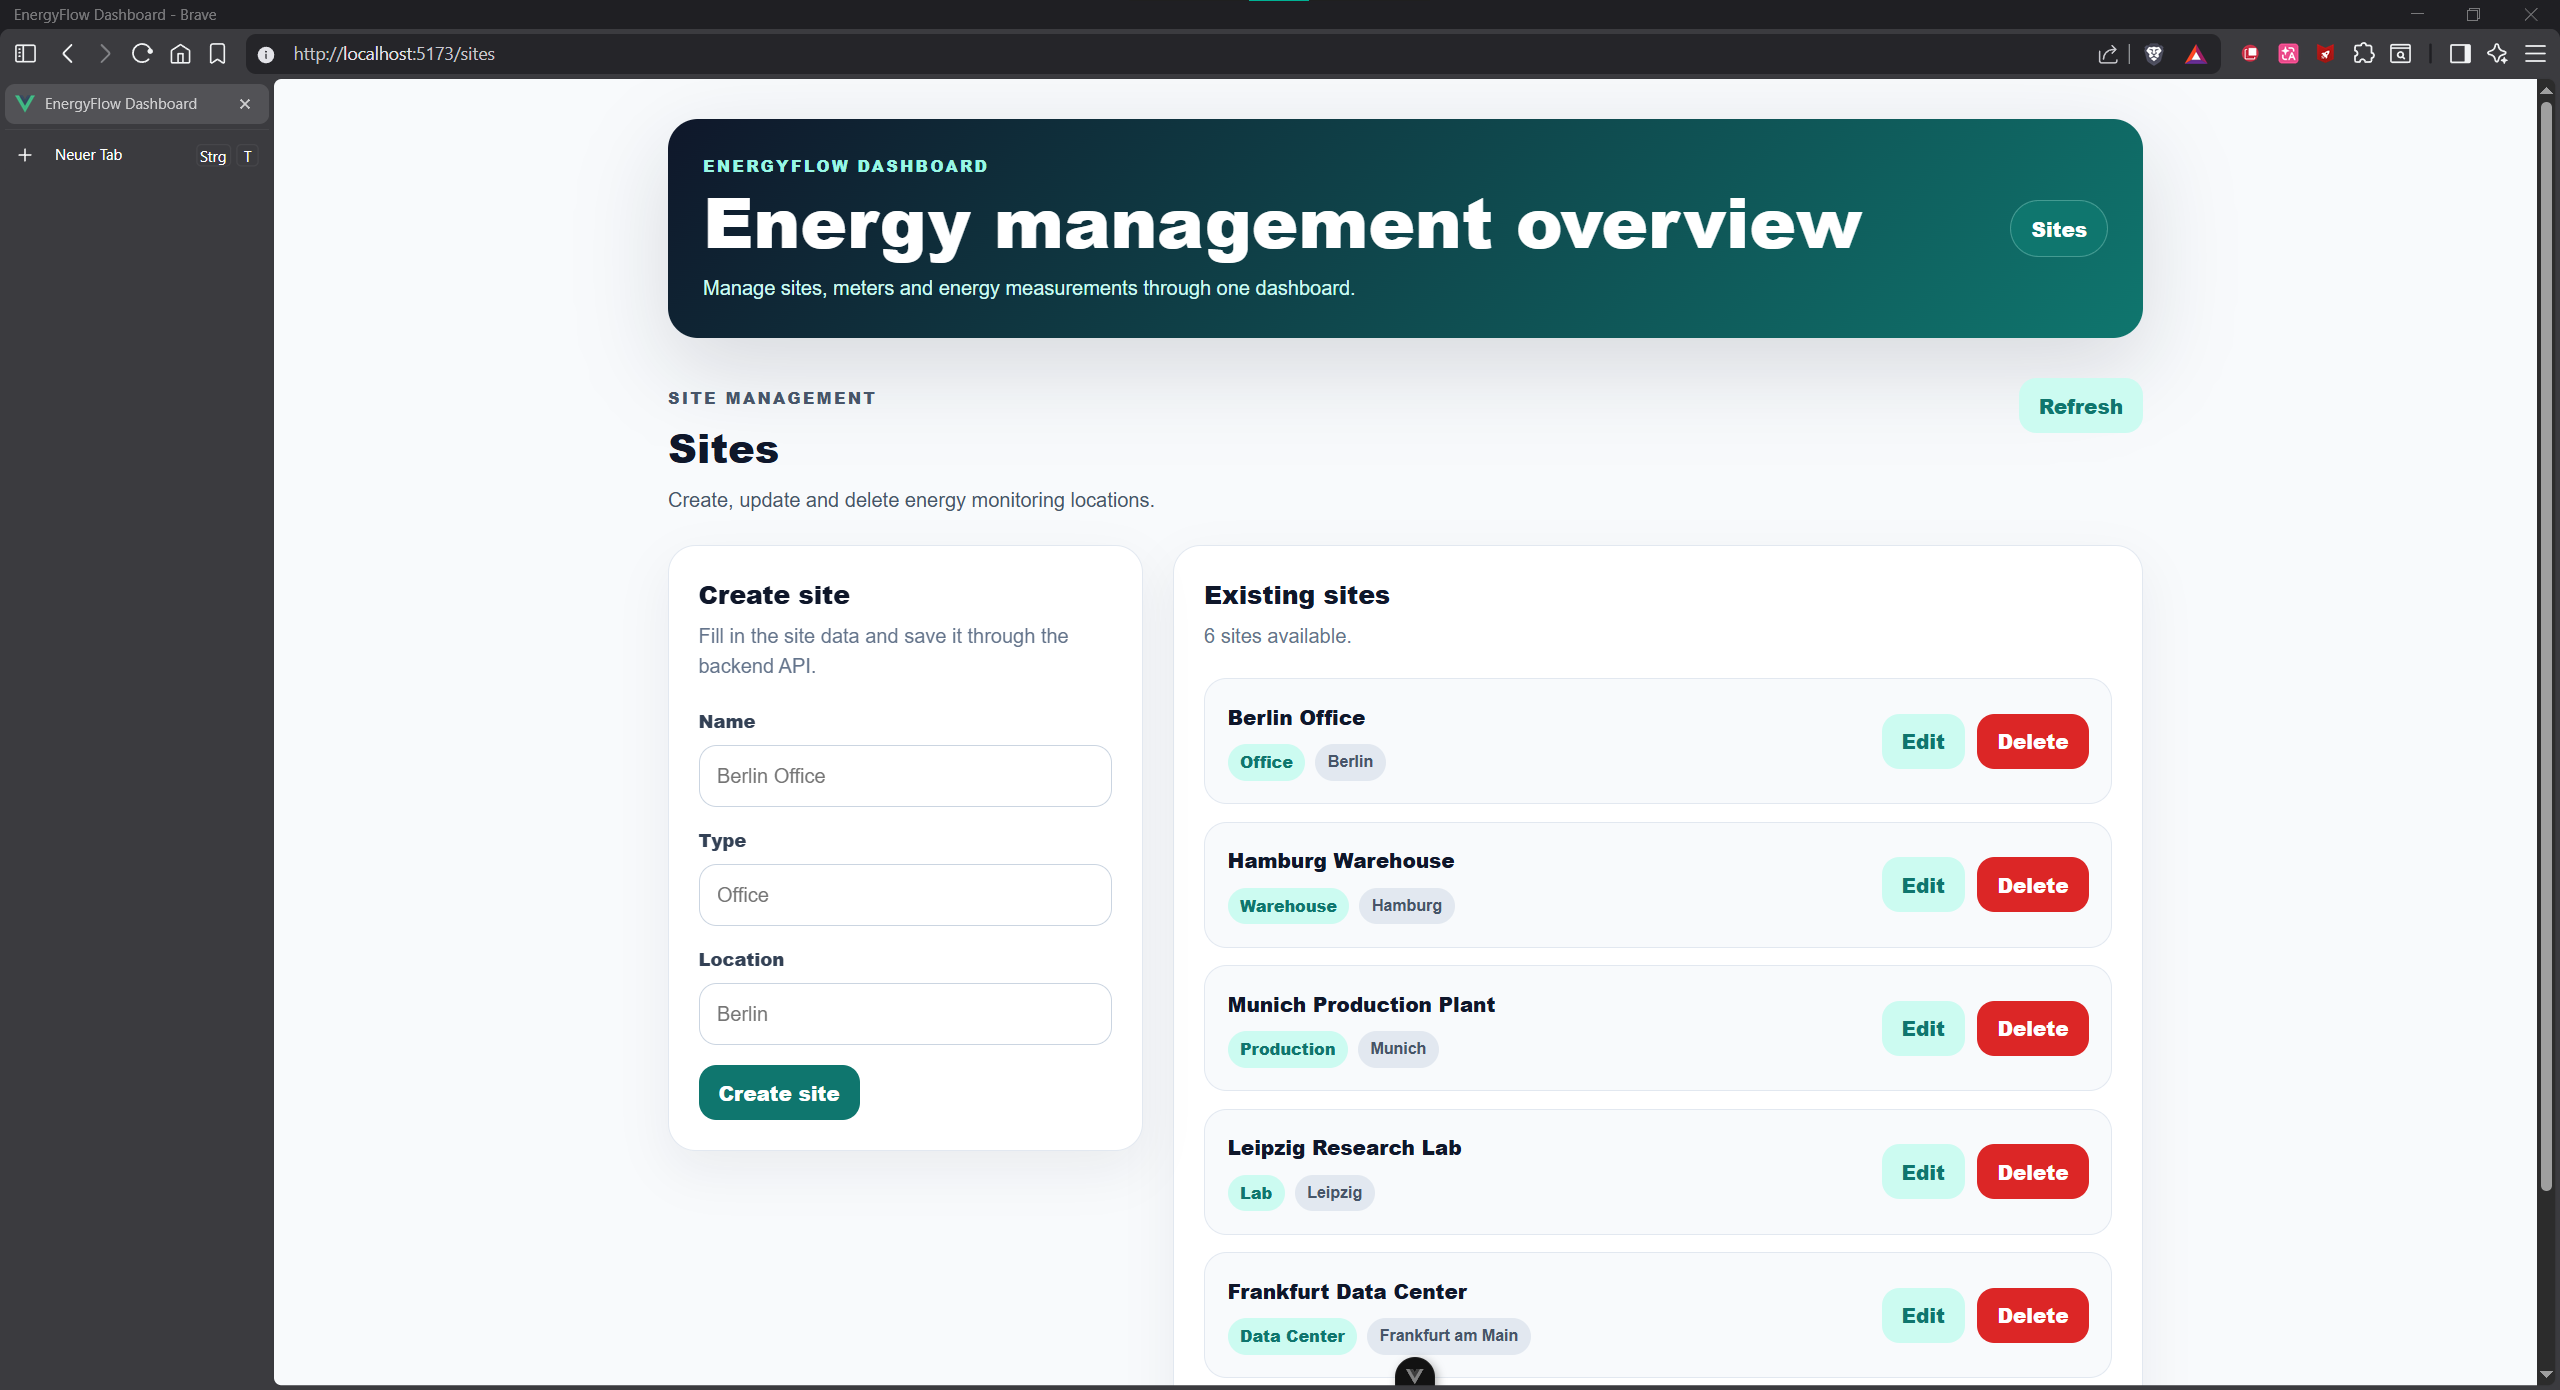
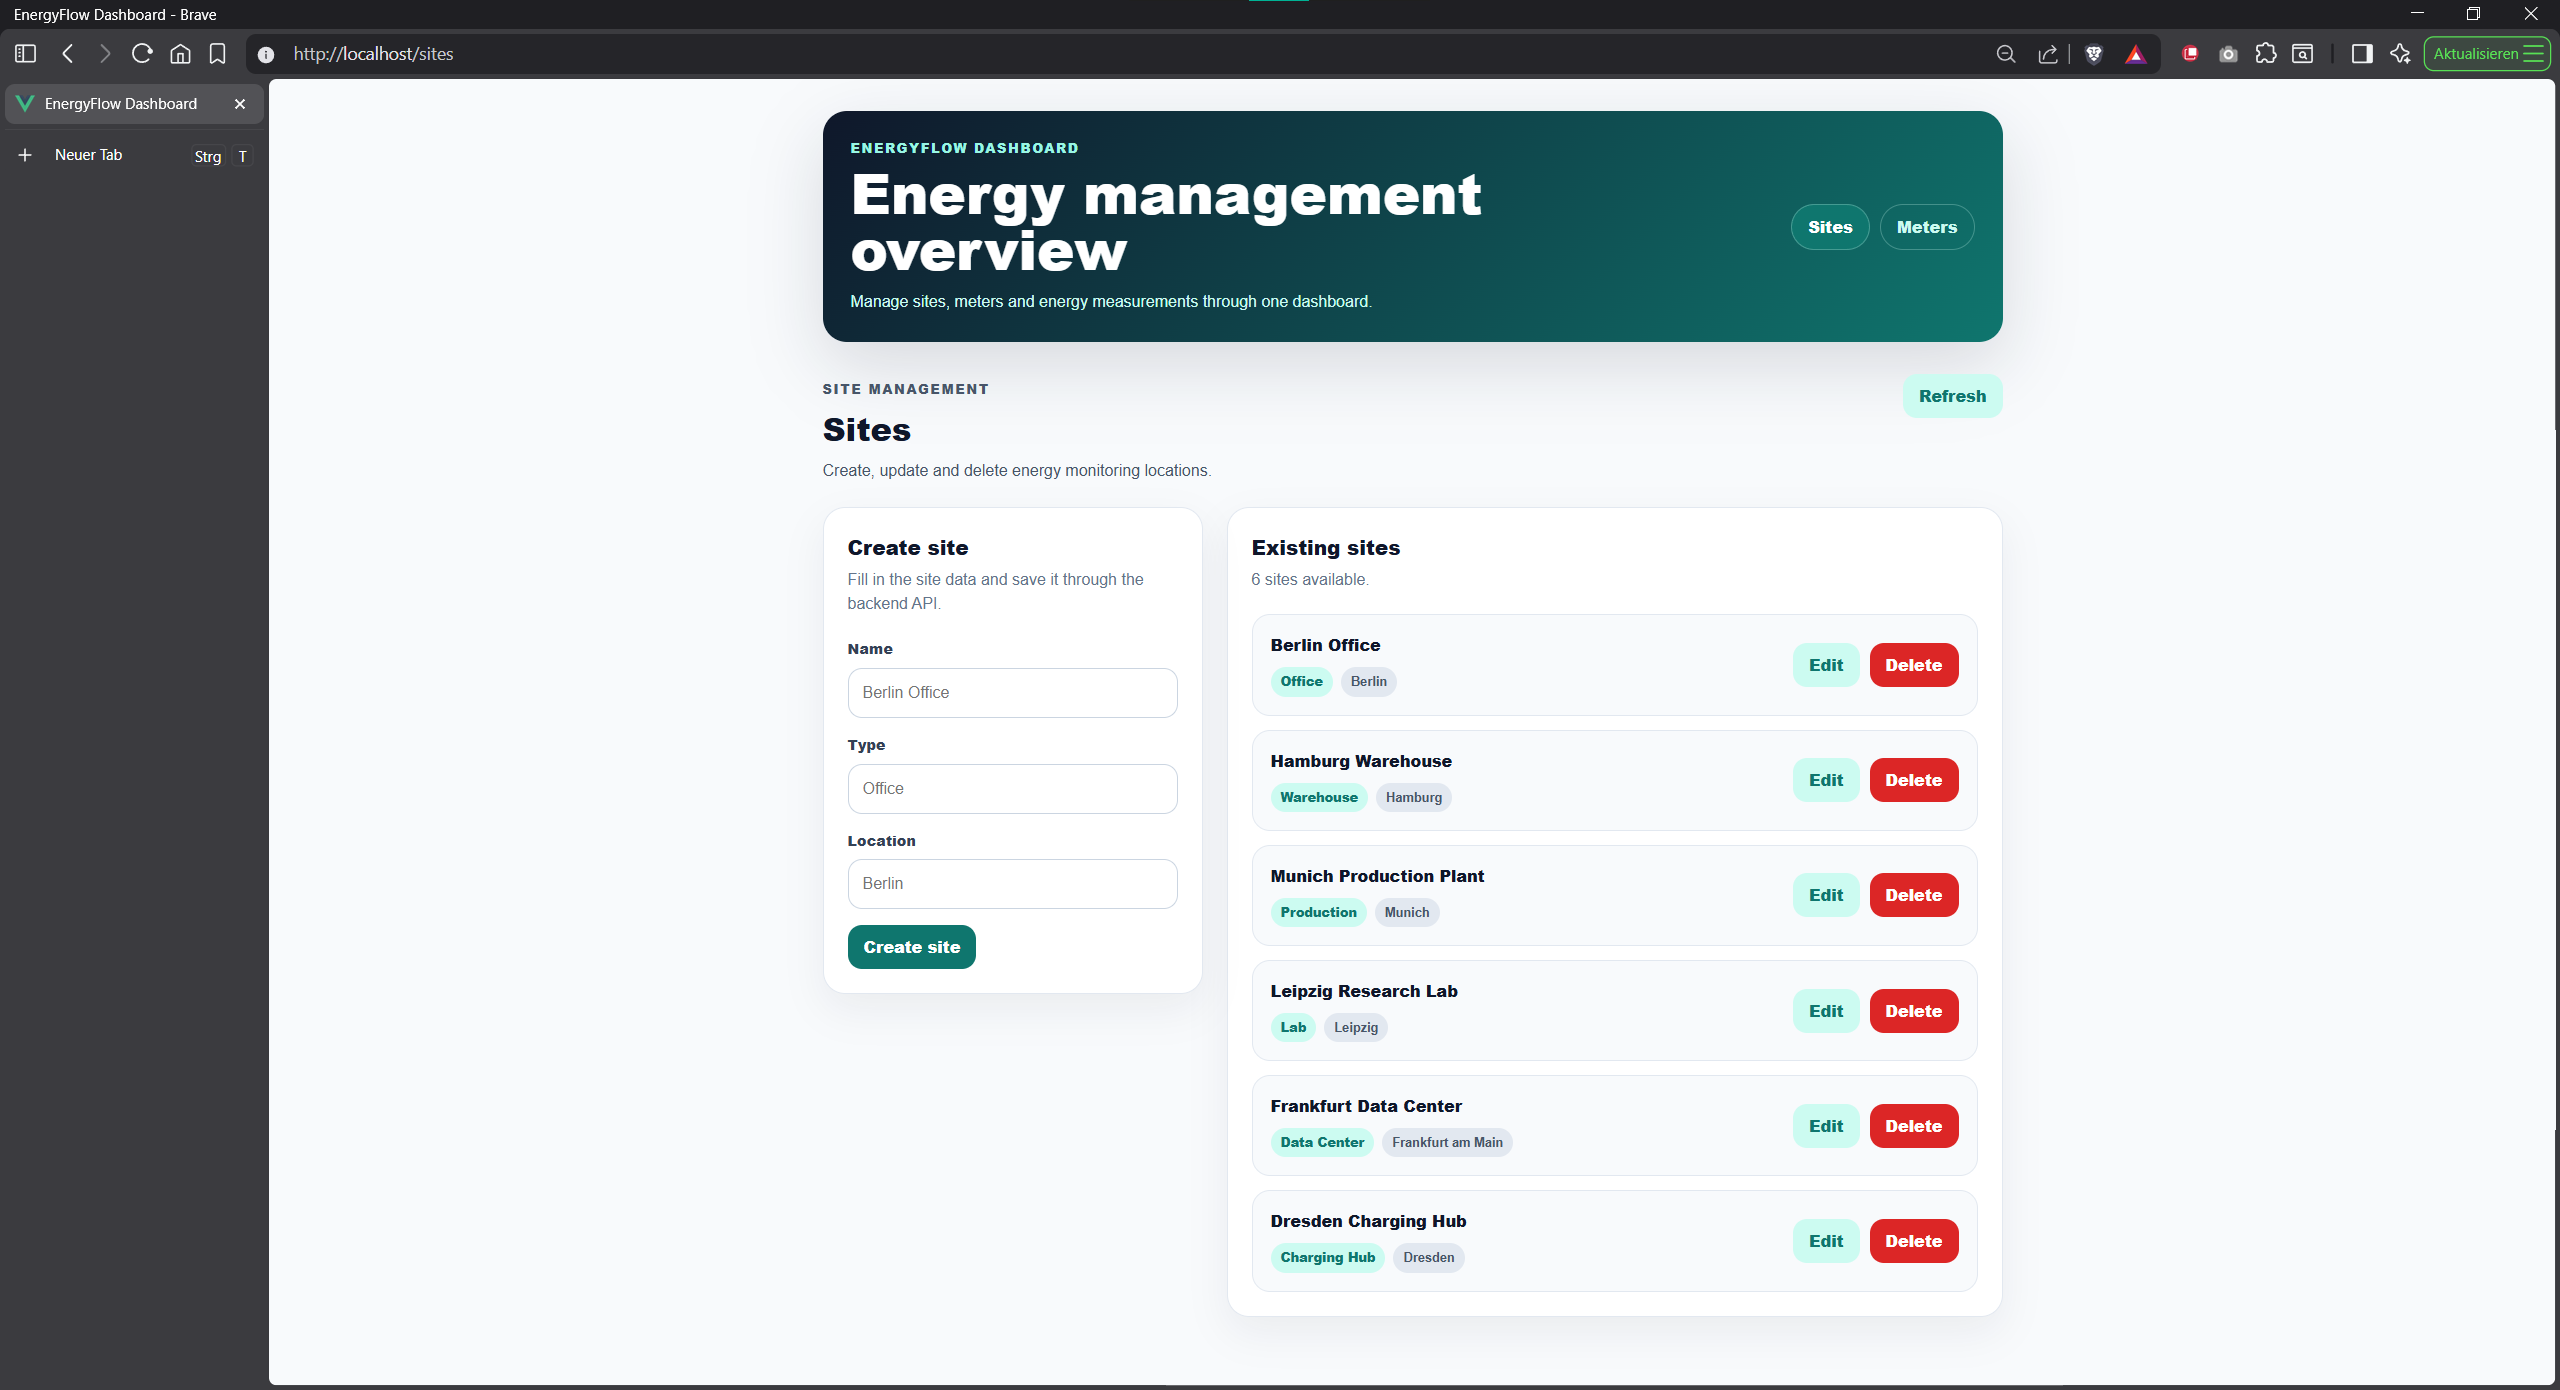
docs: Screenshots aktualisieren

diff --git a/README.md b/README.md
@@ -94,6 +94,11 @@ DELETE  /api/meters/{id}
 
 Die Site-Management-Ansicht zeigt das Vue-Frontend mit angebundener Spring-Boot-REST-API. Standorte kÃ¶nnen erstellt, angezeigt, bearbeitet und gelÃ¶scht werden.
 
+### Meter Management
+
+<img src="docs/screenshots/Meters.png" alt="EnergyFlow Dashboard Meter Management" width="900">
+
+Die Meter-Management-Ansicht zeigt die Verwaltung von Energiezählern mit Standort-Zuordnung, Energieart und technischer Zählernummer. Bestehende Zähler werden übersichtlich dargestellt und können direkt bearbeitet oder gelöscht werden.
 
 ---
 
